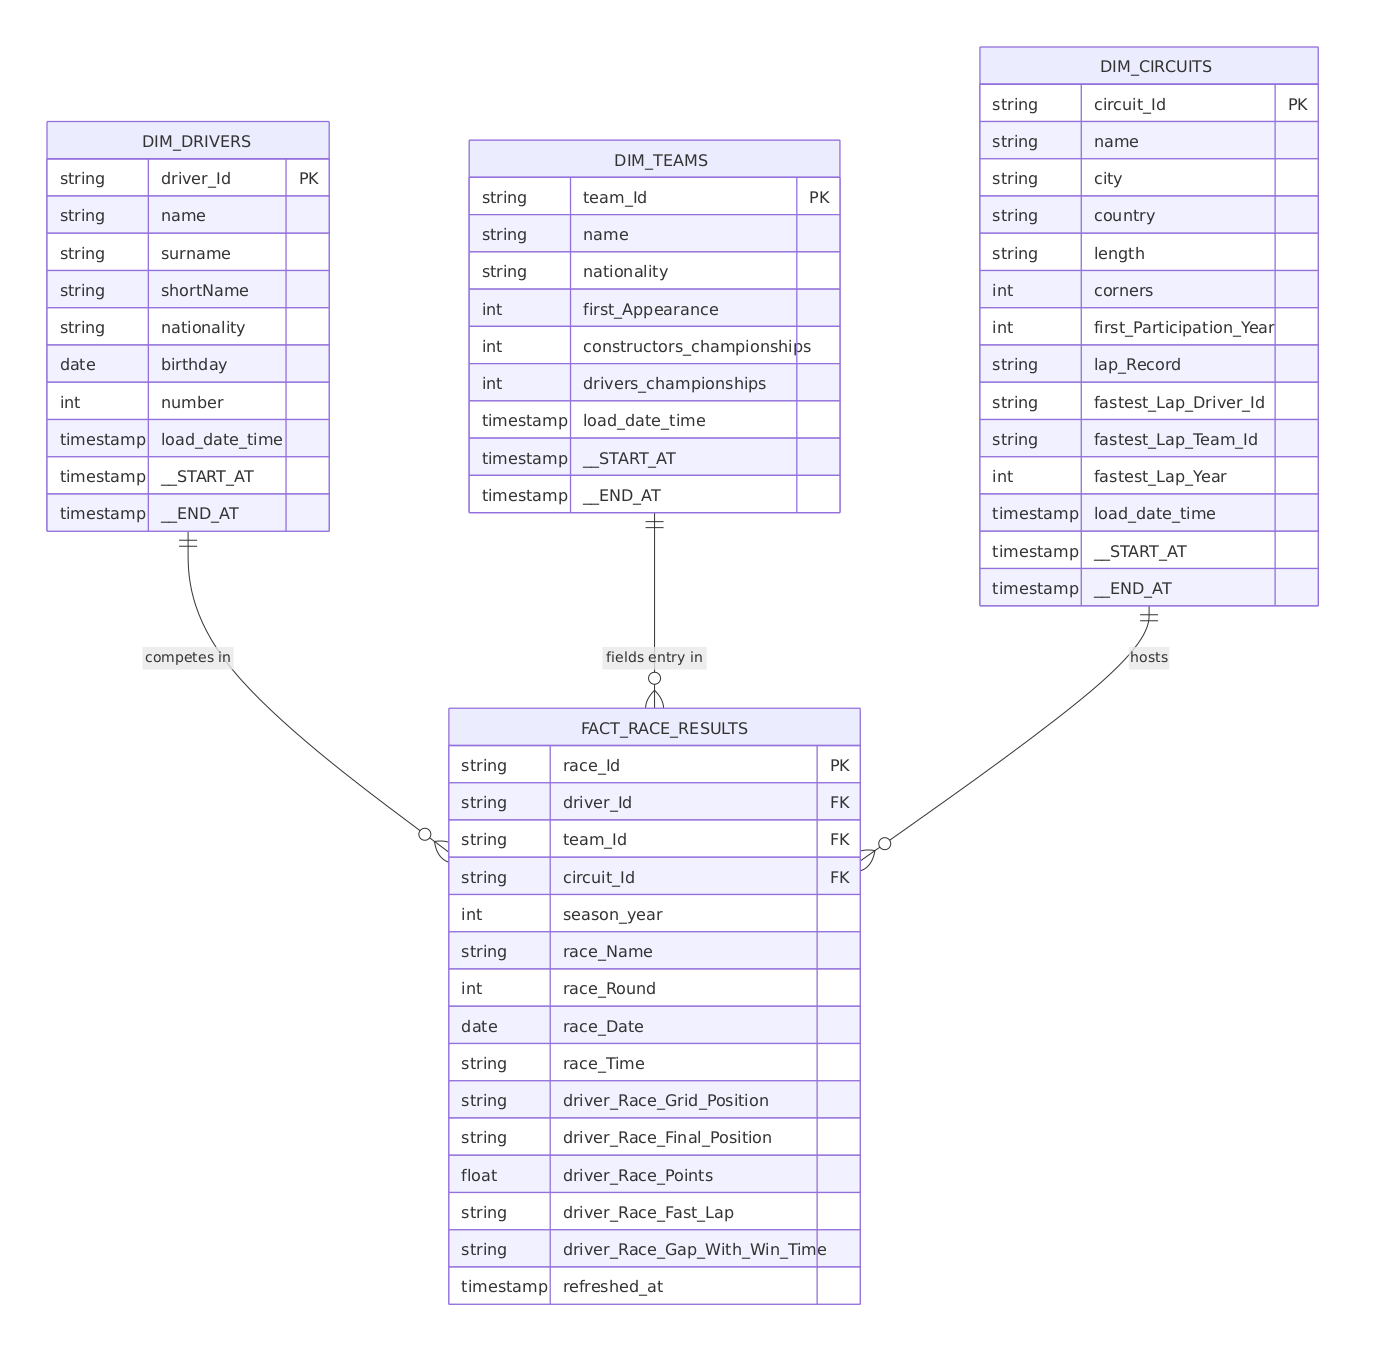
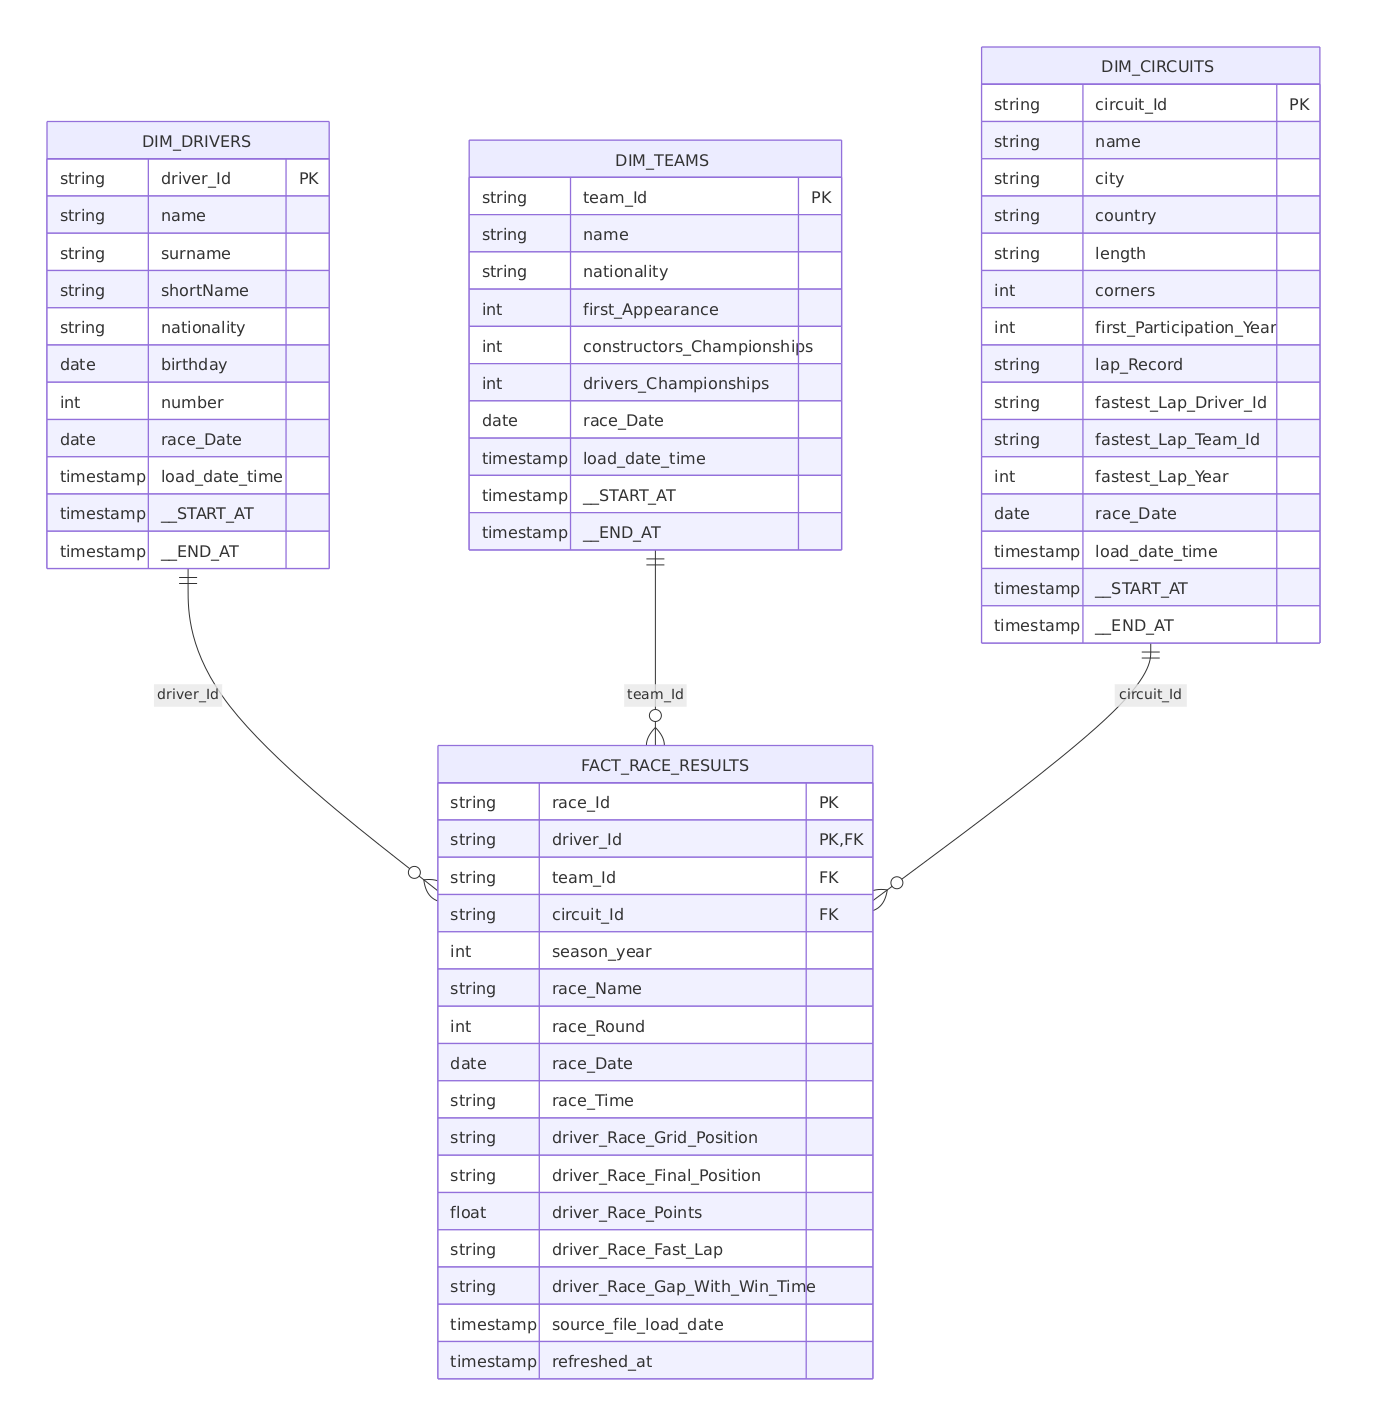
update readme and er diagrams with new table structure

diff --git a/README.md b/README.md
@@ -35,11 +35,15 @@ Each medallion zone has its own ER diagram below, reflecting the tables that pip
 
 `f1_load_to_prepared` — Auto Loader ingestion, quarantine, and flattening of the source JSON.
 
+Every raw table carries two timestamps, and the distinction matters: `load_date_time` is stamped with `current_timestamp()` at pipeline run time, so every row in the same Auto Loader micro-batch gets an identical value. `source_file_load_date` comes from Auto Loader's `_metadata.file_modification_time` instead — the file's own timestamp — and is what downstream SCD2 sequencing actually relies on to tell rows apart within a batch.
+
 ![Raw layer ER diagram](docs/images/raw_layer_er_diagram.png)
 
 ### Curated layer
 
 `f1_curated_transformation` — the conformed star schema. Dimensions are maintained as **SCD Type 2** (full history, via `dp.create_auto_cdc_flow`), the fact table as **SCD Type 1** (latest state only).
+
+Dimension SCD2 flows sequence on `race_Date`, not a load timestamp — `race_Date` reflects when the underlying event actually happened, so a driver's record updates in race-chronological order regardless of the order files happen to get processed in.
 
 ![Curated layer ER diagram](docs/images/curated_layer_er_diagram.png)
 
